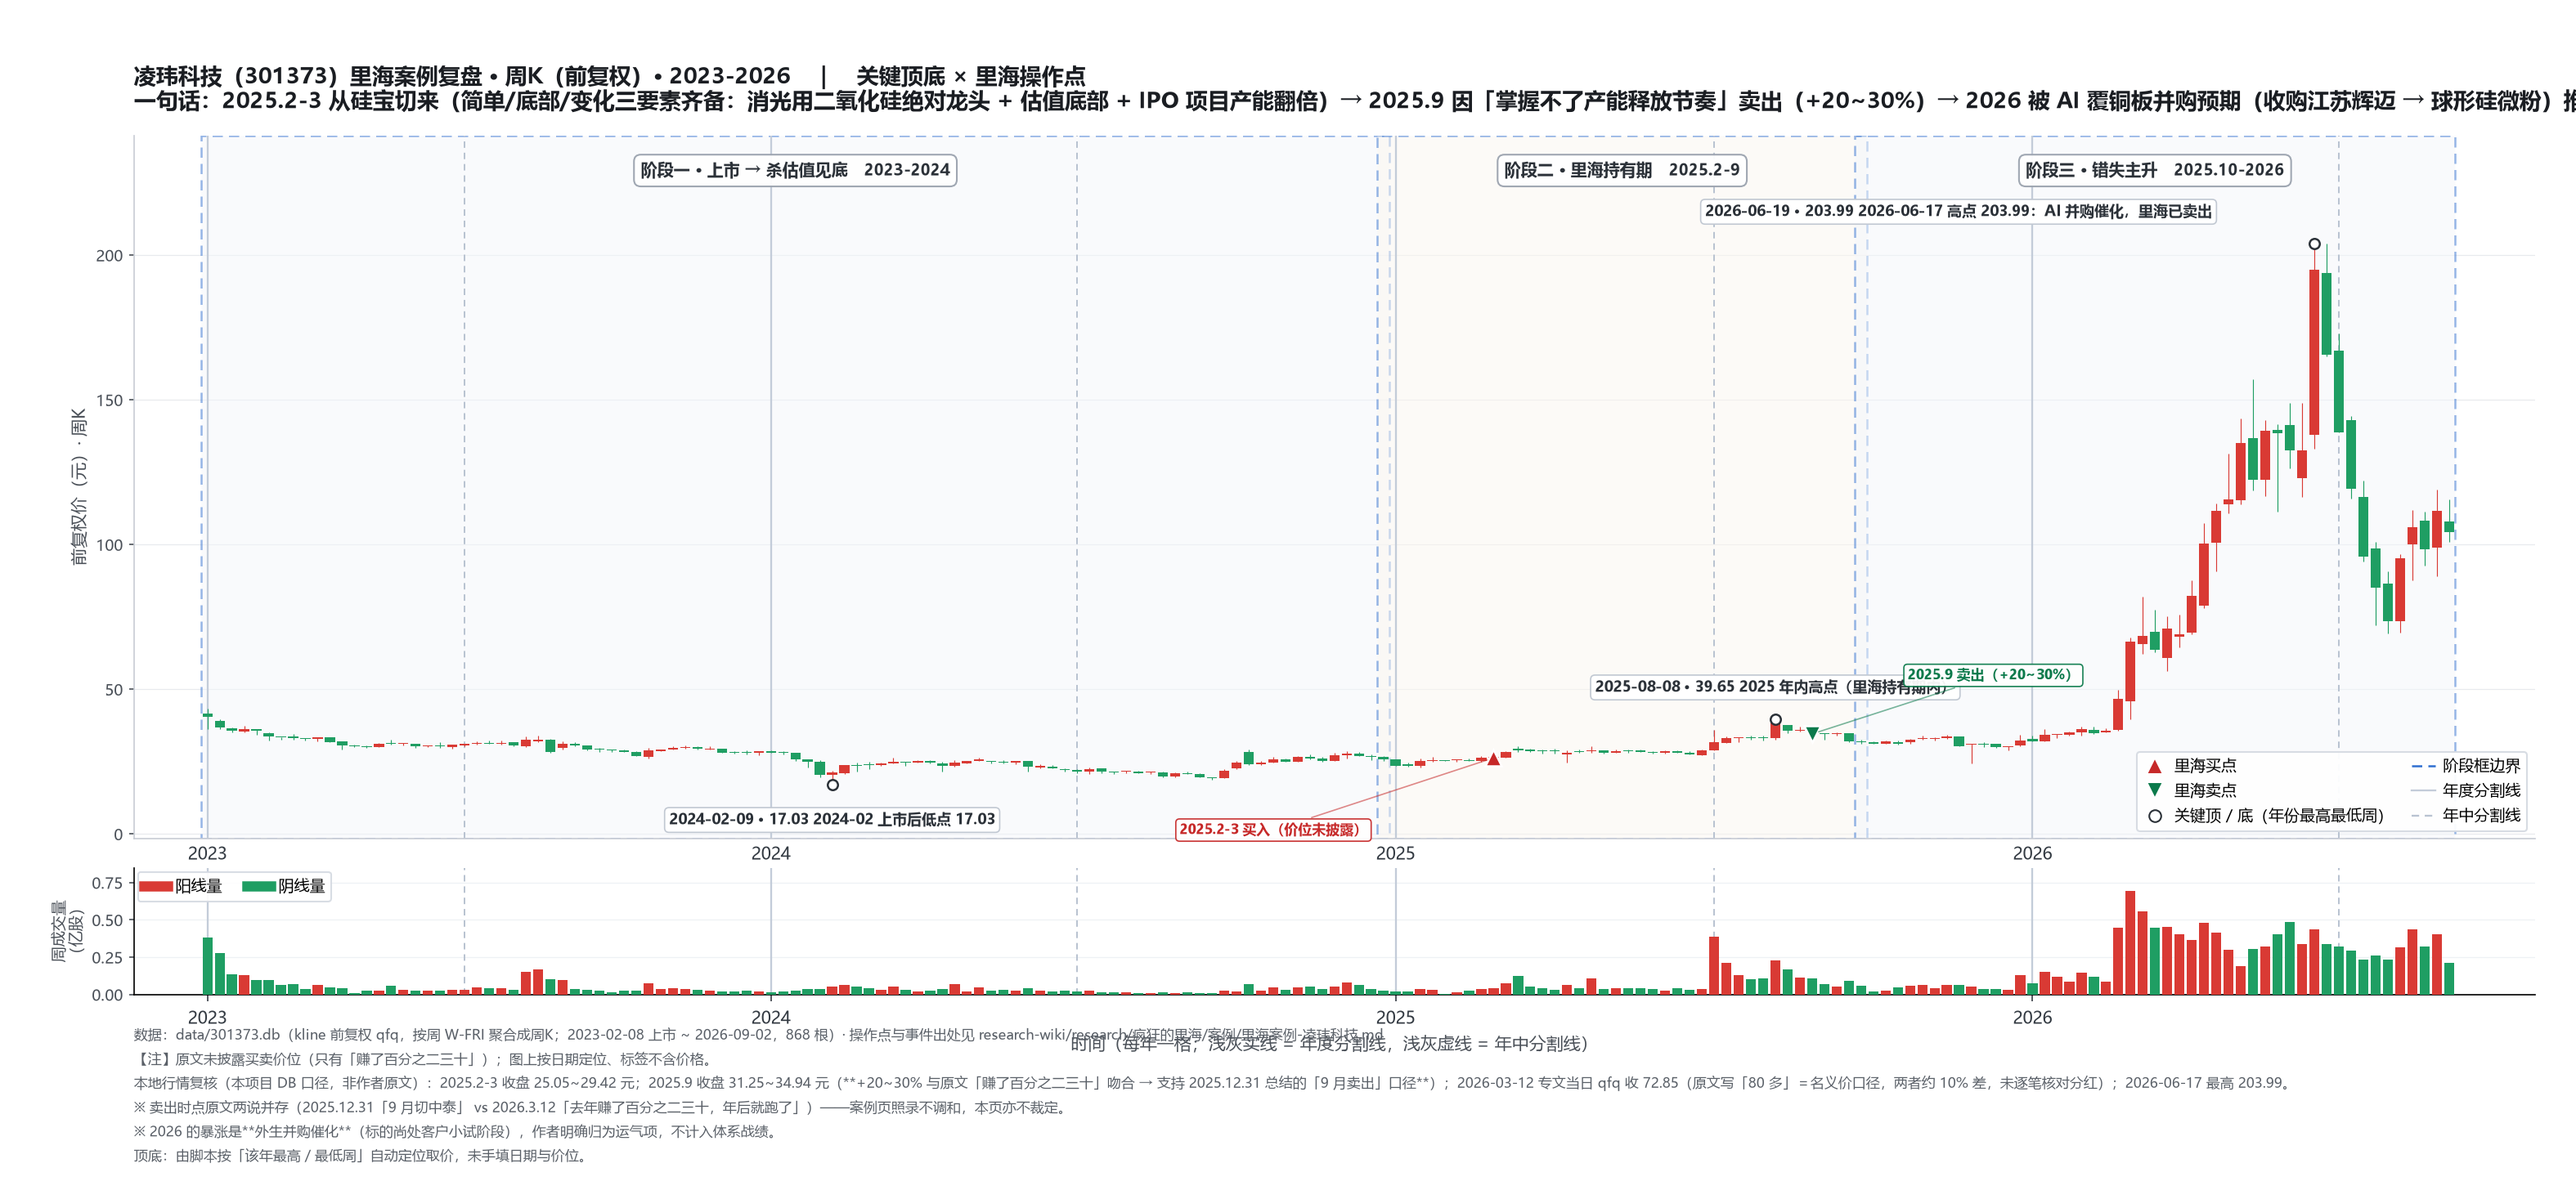
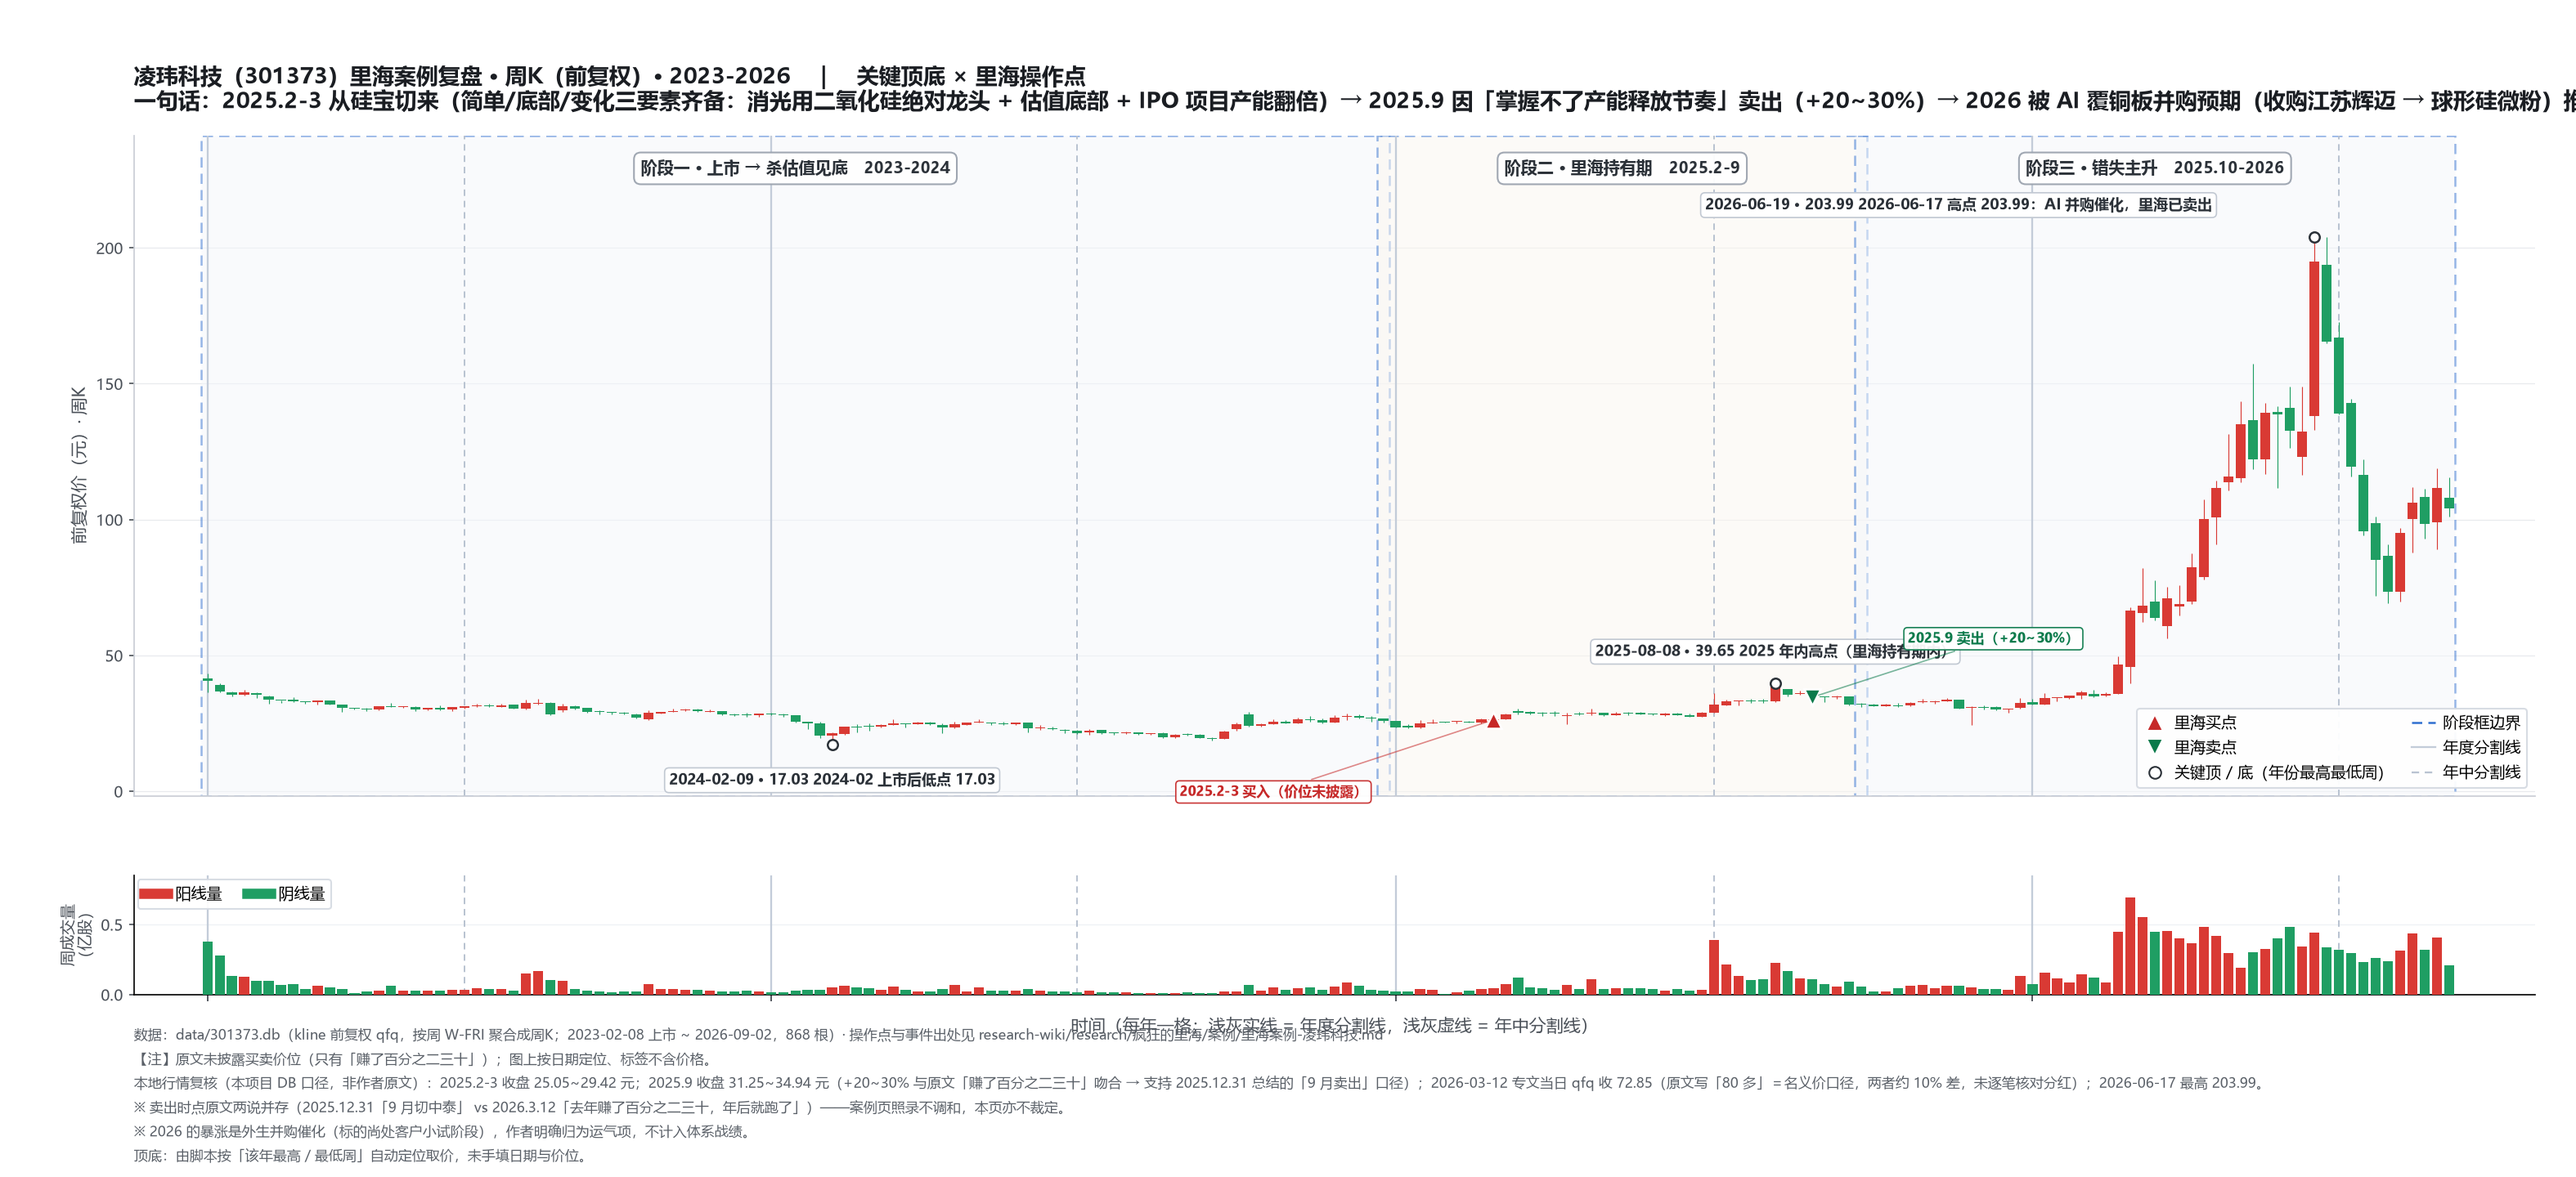
feat(chart): 周K复盘图支持业绩公告日标注 + 新增泡泡玛特(09992)
- linhai_chart.py: 新增 load_disclosures()，读取 data/disclosure/{code}_disclosure.json，
  把年报/中报/季报/业绩预告的披露日以短线 + 标签画在主图轴外（X 轴刻度下方），不占 K 线空间；
  CAT_FMT 同时兼容 A 股口径（一季报/三季报/业绩快报）与港股口径（Q1/Q3/预告）
- 新增 SPECS["09992"] 泡泡玛特周K配置（2020-12 上市 ~ 2026-08，五阶段划分）
  · 明确不标买卖点：作者从未买卖过泡泡玛特，灰圈仅为表态时点
  · 顶底由脚本按当年最高/最低周自动定位取价，未手填日期
- 版式微调：hspace 0.07 -> 0.205，为公告日标签留出空间
- 6 张复盘图按新布局重生成（含新增 assets/kline-09992-review.png）

diff --git a/scripts/linhai_chart.py b/scripts/linhai_chart.py
@@ -13,6 +13,8 @@
 用法：.venv\\Scripts\\python scripts\\linhai_chart.py [code]
       不带参数 = 生成全部已配置标的
 """
+import io
+import json
 import os
 import sqlite3
 import sys
@@ -39,6 +41,13 @@ PHASE_EC = "#2f6fd0"                     # 阶段框边界（蓝）
 YEAR_C, MID_C = "#c3ccd9", "#b9c3d1"     # 年度分割线 / 年中分割线
 LEVEL_C = "#b3261e"
 PHASE_BG = ["#f4f7fb", "#fbf7f0"]
+DISC_QC, DISC_RC = "#c2570c", "#5a6473"   # 业绩先声（预告/快报，橙） / 定期披露（灰）
+
+# 公告类别 → 报告期标签。A 股口径（一季报/三季报/业绩快报）与港股口径（Q1/Q3/预告）都收。
+CAT_FMT = {"年报": "%sA", "中报": "%sH1", "半年报": "%sH1", "Q1": "%sQ1", "Q3": "%sQ3",
+           "一季报": "%sQ1", "三季报": "%sQ3",
+           "业绩快报": "%s快", "业绩预告": "%s预", "快报": "%s快", "预告": "%s预"}
+QUICK_CATS = {"业绩快报", "业绩预告", "快报", "预告"}   # 橙色：业绩先声
 
 # ---------------------------------------------------------------------------
 # 配置：每只标的的复盘图要素（买卖点价位均为案例页原文口径）
@@ -169,6 +178,47 @@ SPECS["600452"] = dict(
         ("2026", "H", "2026 高点：创出新高（案例未覆盖）", -40),
     ],
     levels=[],
+)
+
+SPECS["09992"] = dict(
+    name="泡泡玛特", start="2020-12-01",
+    title=("泡泡玛特（09992 · 港股）周K复盘（前复权）· 2020-12 上市 ~ 2026-08　｜　"
+           "关键顶底 × 里海「错过点」× 关键水平位",
+           "注意：本图不标买卖点 —— 里海从未买卖过泡泡玛特（原话「我连 1 秒钟都不会迟疑，我不会买」"
+           "「一直以来我没有买卖过港股」「宁愿错过，不愿错买」）；灰圈是他的表态时点，不是交易"),
+    footnote=(
+        "数据：data/09992.db（kline 前复权 qfq，按周 W-FRI 聚合成周K）· 引语与事件出处见 "
+        "research-wiki/raw/research/疯狂的里海/【疯狂的里海】公众号文章合集2025年 - 里海.txt\n"
+        "※ 本图为什么不标「买点 / 卖点」：作者从未买卖过泡泡玛特。2025.6.18 原文：「再来说泡泡玛特，两年涨了 20 倍……"
+        "买不买？我连 1 秒钟都不会迟疑，我不会买。为什么？已经早就不符合我的『追求安全边际第一』高胜率的投资模式了。"
+        "早期是符合我的搞法的，但是，我无精力跟踪，也暂时没有涉足港股」「一直以来我没有买卖过港股」「宁愿错过，不愿错买」。\n"
+        "作者对它的定性（2025 年）：典型的困境反转模式 —— 盲盒业务本已下滑，出海却成功、基本面大反转，"
+        "再叠加市场情绪共振，「形成了战略级的投资机会」；但他认为发现时「涨了许多之后才发现，就已经错过其最佳买入区间了」。"
+        "据此他提炼的判据是「没变化少言底」与「高位不要去研究基本面，低位研究」。\n"
+        "顶底：由脚本按「该年最高 / 最低周」自动定位取价，未手填日期。2025 年高点 333.88（前复权）即作者笔下的「最高点 339」，"
+        "两者为同一位置（复权 / 名义口径微差）。窗口截至 2026-08-26（数据源末行）。"),
+    phases=[
+        ("2020-12-01", "2021-12-31", "阶段一 · 上市爆炒后见顶\n2020.12-2021", "2020.12.11 港股上市；2021 年最高 102.96（前复权）"),
+        ("2022-01-01", "2023-12-31", "阶段二 · 盲盒下滑 + 杀估值\n2022-2023", "从 102.96 跌至 2022 年最低 9.60（-90.7%）；2023 年在 15-27 区间横盘"),
+        ("2024-01-01", "2024-12-31", "阶段三 · 出海成功 → 基本面反转\n2024", "作者：「没想到出海却成功了，基本面大反转」；16.39 → 94.82"),
+        ("2025-01-01", "2025-12-31", "阶段四 · 戴维斯双击主升\n2025", "2025.8 最高 333.88；作者 6.18 明确「我不会买」、10.23 记「从最高点 339 跌三分之一」"),
+        ("2026-01-01", "2026-08-31", "阶段五 · 高位回落震荡\n2026", "2026.3 回落至 137.66，8 月 154.30（窗口截至 2026-08-26）"),
+    ],
+    trades=[],                      # 作者无交易 → 不标买卖点
+    neutrals=[                      # 中性标记：作者的表态时点（非交易）
+        ("2025-06-18", "2025.6.18 作者：「我连 1 秒钟都不会迟疑，我不会买」", (0, 44)),
+        ("2025-10-23", "2025.10.23 作者：「从最高点 339 下跌了三分之一」", (-74, -48)),
+    ],
+    hilo=[
+        ("2021", "H", "2021 高点：上市爆炒后见顶"),
+        ("2022", "L", "2022 低点 9.60：盲盒下滑 + 杀估值最深处"),
+        ("2025", "H", "2025 高点 333.88（作者笔下「最高点 339」）"),
+        ("2026", "L", "2026 低点：高位回落"),
+    ],
+    levels=[
+        (102.96, "2021 高点 102.96（前复权）", "#5a6473"),
+        (333.88, "2025 高点 333.88 ＝ 作者笔下「最高点 339」", LEVEL_C),
+    ],
 )
 
 SPECS["603325"] = dict(
@@ -303,6 +353,30 @@ def draw_candles(ax, seg, idx, lw=0.55, width=0.82):
 # ---------------------------------------------------------------------------
 # 绘图
 # ---------------------------------------------------------------------------
+def load_disclosures(code):
+    """读 data/disclosure/{code}_disclosure.json（A 股 = 巨潮 cninfo，港股 = 港交所披露易）。
+
+    返回 (records, source)：records = [{date, kind, label, title}]，按日期升序；无文件时返回 ([], None)。
+    标签年份口径 = 报告期：年报在次年披露，故披露年 −1；其余（中报 / 季报 / 预告 / 运营数据）取披露年。
+    """
+    path = os.path.join(BASE, "data", "disclosure", "%s_disclosure.json" % code)
+    if not os.path.exists(path):
+        return [], None
+    with io.open(path, encoding="utf-8") as f:
+        js = json.load(f)
+    out = []
+    for d in js.get("disclosures") or []:
+        kind = d.get("category", "")
+        fmt = CAT_FMT.get(kind)
+        if fmt is None:
+            continue
+        y = int(str(d["date"])[:4]) - (1 if kind == "年报" else 0)
+        out.append({"date": pd.Timestamp(d["date"]), "kind": kind,
+                    "label": fmt % str(y)[2:], "title": d.get("title", "")})
+    out.sort(key=lambda x: x["date"])
+    return out, js.get("source")
+
+
 def draw(code, spec):
     w = to_week(load_kline(code, spec["start"]))
     wi = w["date"].to_numpy()
@@ -311,7 +385,7 @@ def draw(code, spec):
     fig = plt.figure(figsize=(21, 9.6), dpi=150)
     fig.patch.set_facecolor("#ffffff")
     gs = fig.add_gridspec(2, 1, height_ratios=[4.0, 0.72],
-                          left=0.052, right=0.984, top=0.885, bottom=0.155, hspace=0.07)
+                          left=0.052, right=0.984, top=0.885, bottom=0.155, hspace=0.205)
     ax_m = fig.add_subplot(gs[0])
     ax_v = fig.add_subplot(gs[1], sharex=ax_m)
 
@@ -344,6 +418,25 @@ def draw(code, spec):
                       color="#2b3138", zorder=6,
                       bbox=dict(boxstyle="round,pad=0.42", fc="#ffffff",
                                 ec="#9aa2ae", lw=1.0, alpha=0.94))
+
+    # 业绩公告披露日：短线与标签都放在主图轴外（X 轴刻度下方），不占 K 线空间
+    # 橙 = 业绩预告（先声），灰 = 年度 / 中期业绩与季度运营数据；年报标签再低一行，避让同月一季报
+    disc, disc_src = load_disclosures(code)
+    for d in disc:
+        p = week_pos(wi, d["date"])
+        quick = d["kind"] in QUICK_CATS
+        col = DISC_QC if quick else DISC_RC
+        ax_m.vlines(p, -0.020, 0.0, color=col,
+                    lw=1.5 if quick else 1.1,
+                    alpha=0.85 if quick else 0.45, clip_on=False,
+                    transform=ax_m.get_xaxis_transform(),
+                    zorder=1.5 if quick else 1.4)
+        ax_m.annotate(d["label"], (p, 0), xycoords=("data", "axes fraction"),
+                      xytext=(0, -33 if d["kind"] == "年报" else -20),
+                      textcoords="offset points", ha="center", va="top",
+                      fontsize=7.0, fontweight="bold", color=col,
+                      alpha=1.0 if quick else 0.85, zorder=1.6,
+                      annotation_clip=False)
 
     # 关键水平位
     for px, txt, col in spec["levels"]:
@@ -391,6 +484,21 @@ def draw(code, spec):
                       arrowprops=dict(arrowstyle="-", color=col, lw=0.8,
                                       alpha=0.55, shrinkA=2, shrinkB=4))
 
+    # 中性标记（非交易）：如作者复盘时追认的「错过点」/ 明确表态时点，用空心圈 + 灰框
+    for date, txt, (dx, dy) in spec.get("neutrals", []):
+        p = week_pos(wi, date)
+        y = w["close"].iloc[p]
+        ax_m.plot([p], [y], marker="o", ms=9, mfc="none", mec="#6b7280",
+                  mew=1.5, zorder=15)
+        ax_m.annotate(txt, (p, y), xytext=(dx, dy), textcoords="offset points",
+                      ha="center" if dx == 0 else ("left" if dx > 0 else "right"),
+                      va="bottom" if dy > 0 else "top",
+                      fontsize=8.0, fontweight="bold", color="#4b5563", zorder=27,
+                      bbox=dict(boxstyle="round,pad=0.26", fc="#ffffff",
+                                ec="#9aa2ae", lw=0.9, alpha=0.94),
+                      arrowprops=dict(arrowstyle="-", color="#9aa2ae", lw=0.8,
+                                      alpha=0.6, shrinkA=2, shrinkB=4))
+
     # 年份分割线 + 年中分割线
     yrs = pd.Series(wi).dt.year
     ypos = [int(i) for i in yrs.ne(yrs.shift()).to_numpy().nonzero()[0]]
@@ -407,24 +515,32 @@ def draw(code, spec):
         ax_v.axvline(int(i), color=MID_C, lw=0.95, ls=(0, (4, 3)), zorder=0.6)
 
     ax_m.set_xticks(ypos)
-    ax_m.set_xticklabels(ylab, fontsize=10)
-    ax_m.tick_params(axis="x", labelbottom=True, labelsize=10, colors="#333a42",
-                     length=0, pad=4)
+    # 主图不显示年份刻度（该位置让给轴外下方的公告标签），年份读成交量面板下方那套
+    ax_m.set_xticklabels([])
+    ax_m.tick_params(axis="x", length=0)
 
-    # 标题 + 图例
-    ax_m.set_title(spec["title"][0] + "\n" + spec["title"][1],
+    # 标题 + 图例（matplotlib 不解析 markdown，星号需去掉，否则会原样渲染）
+    ax_m.set_title((spec["title"][0] + "\n" + spec["title"][1]).replace("**", ""),
                    fontsize=13.2, fontweight="bold", color="#1a1d22",
                    loc="left", pad=16)
+    # 图例按配置动态生成：无 trades 的标的（如作者从未交易的标的）不显示买卖点图例
+    ev = []
+    if spec.get("trades"):
+        ev += [Line2D([], [], marker="^", color="none", mfc=BUY_C, mec="white", ms=10, label="里海买点"),
+               Line2D([], [], marker="v", color="none", mfc=SELL_C, mec="white", ms=10, label="里海卖点")]
+    if spec.get("neutrals"):
+        ev += [Line2D([], [], marker="o", color="none", mfc="none", mec="#6b7280", ms=9,
+                      label="里海表态时点（非交易）")]
+    if disc:
+        ev += [Line2D([], [], color=DISC_QC, lw=1.5, label="业绩预告披露日（先声）"),
+               Line2D([], [], color=DISC_RC, lw=1.1, label="定期披露日（年报 / 中报 / 季报）")]
+    ev += [Line2D([], [], marker="o", color="none", mfc="white", mec="#2b3138", ms=7,
+                  label="关键顶 / 底（年份最高最低周）"),
+           Line2D([], [], color=PHASE_EC, lw=1.2, ls=(0, (5, 3)), label="阶段框边界"),
+           Line2D([], [], color=YEAR_C, lw=1.1, label="年度分割线"),
+           Line2D([], [], color=MID_C, lw=1.1, ls=(0, (4, 3)), label="年中分割线")]
     ax_m.legend(
-        handles=[
-            Line2D([], [], marker="^", color="none", mfc=BUY_C, mec="white", ms=10, label="里海买点"),
-            Line2D([], [], marker="v", color="none", mfc=SELL_C, mec="white", ms=10, label="里海卖点"),
-            Line2D([], [], marker="o", color="none", mfc="white", mec="#2b3138", ms=7,
-                   label="关键顶 / 底（年份最高最低周）"),
-            Line2D([], [], color=PHASE_EC, lw=1.2, ls=(0, (5, 3)), label="阶段框边界"),
-            Line2D([], [], color=YEAR_C, lw=1.1, label="年度分割线"),
-            Line2D([], [], color=MID_C, lw=1.1, ls=(0, (4, 3)), label="年中分割线"),
-        ],
+        handles=ev,
         loc="lower right", ncol=2, fontsize=9.2, frameon=True, facecolor="white",
         edgecolor="#d5dae2", framealpha=0.94, handlelength=1.5, columnspacing=1.2,
         handletextpad=0.5, borderaxespad=0.5).set_zorder(40)
@@ -451,8 +567,14 @@ def draw(code, spec):
                 handlelength=1.5, columnspacing=1.6, handletextpad=0.5,
                 borderaxespad=0.25)
 
-    # 脚注
-    fig.text(0.052, 0.008, spec["footnote"], fontsize=8.3, color="#5a6068",
+    # 脚注（有公告数据时追加一行口径说明）
+    fn = spec["footnote"].replace("**", "")
+    if disc:
+        fn += ("\n业绩公告：主图底部短线 = 披露日（橙 = 业绩预告，灰 = 年度 / 中期业绩与季度运营数据），"
+               "标签为报告期（24A = 2024 年度业绩 / 25H1 = 2025 中期 / 25Q3 = 2025 三季度 / 25预 = 业绩预告）；"
+               "来源 %s，数据见 data/disclosure/%s_disclosure.json，共 %d 条。"
+               % (disc_src or "巨潮资讯 cninfo", code, len(disc)))
+    fig.text(0.052, 0.008, fn, fontsize=8.3, color="#5a6068",
              va="bottom", linespacing=1.6)
 
     out = os.path.join(ASSETS, "kline-%s-review.png" % code)
